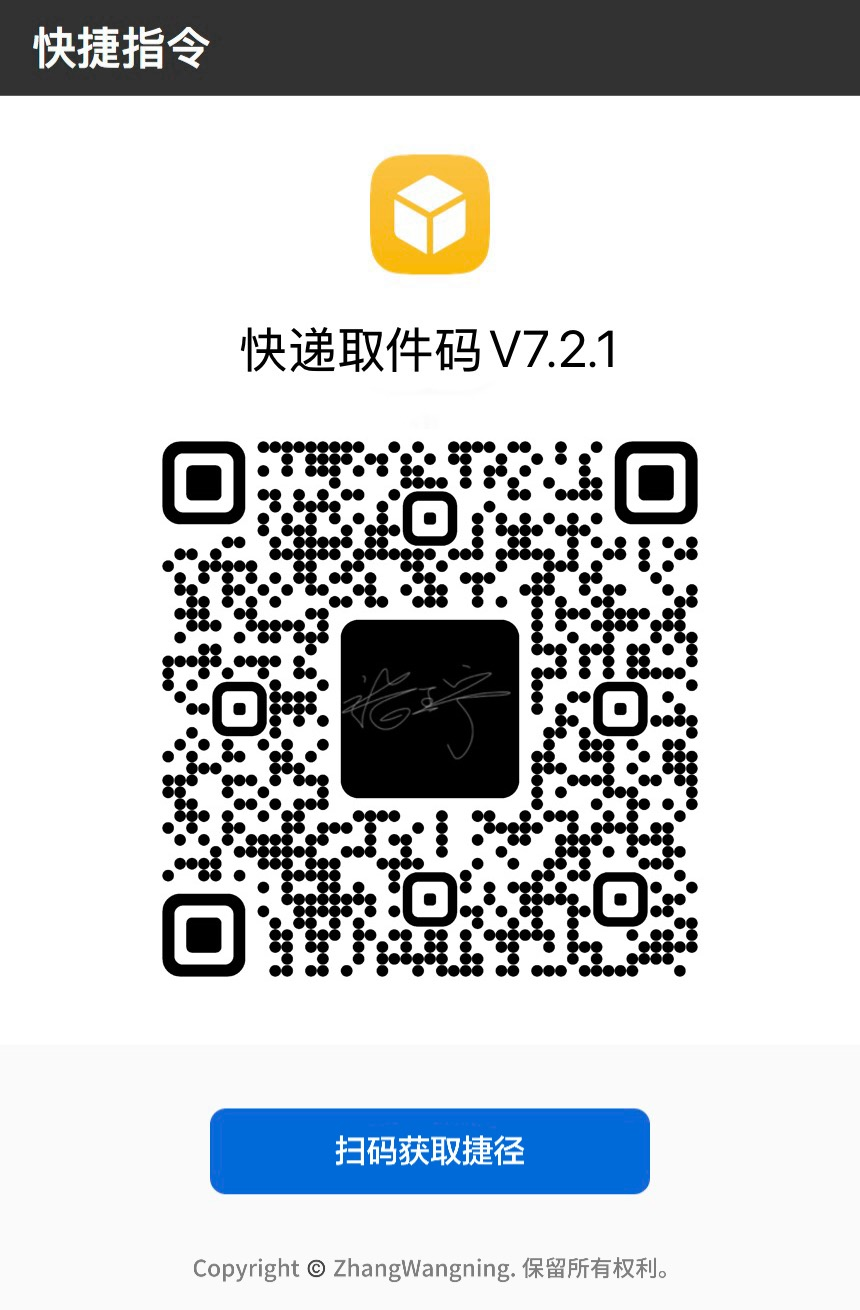
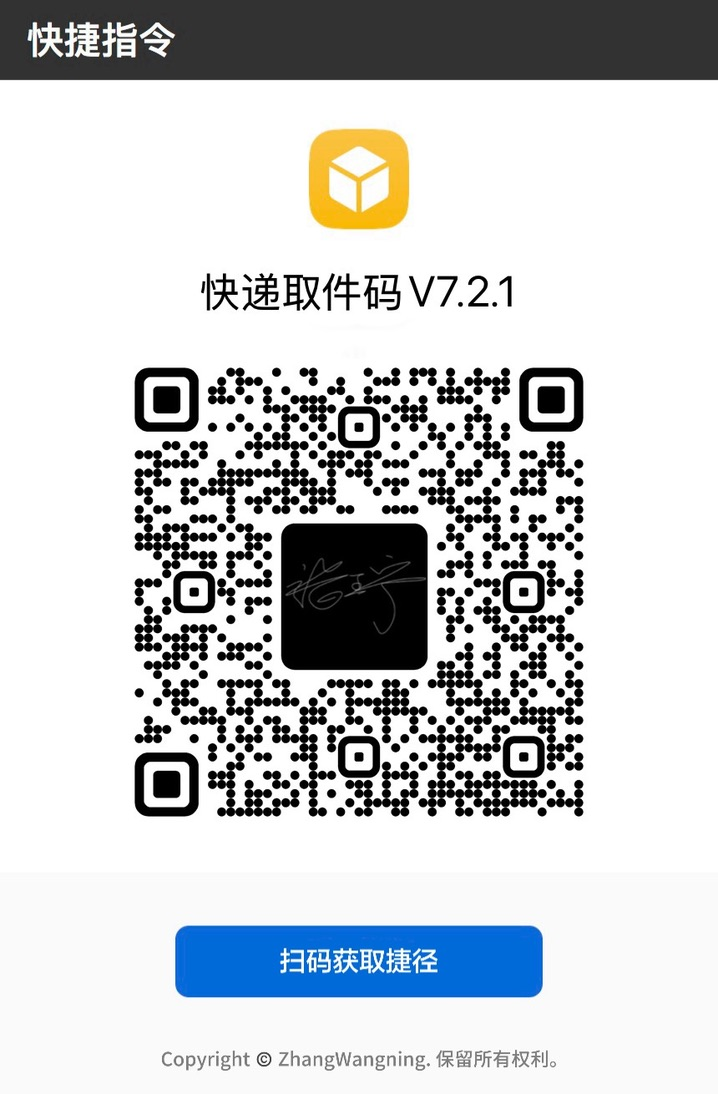
docs: 更新 V7.2.1 文档 — iCloud 链接/二维码/使用教程合并至 README

Changed region(s): [[0.1838, 0.3108, 0.8273, 0.7459], [0.4596, 0.8702, 0.5209, 0.9013]]

diff --git a/README.md b/README.md
@@ -34,7 +34,7 @@
 点击下方链接，在 Safari 中打开即可添加：
 
 ```
-https://www.icloud.com/shortcuts/f8465347024c422690bbccabf58b3ea2
+https://www.icloud.com/shortcuts/9227bb617ac449b0bfc7b3620d6ac402
 ```
 
 > 💡 **提示**：打开链接后选择「获取快捷指令」，首次使用需在「设置 → 快捷指令」中允许运行。
@@ -57,29 +57,32 @@ https://gitee.com/zhang_wangning/shortcut_pickup_code/raw/master/pickup-code.sho
 
 > 旧版本不再单独提供，回复 `0525` 获取到的始终为**当前最新版**。扫码 / iCloud / 仓库下载方式见上方，二者等价。
 
-## 📖 使用方法
+## 📖 使用方法（完整教程）
 
-> 完整配置步骤与工作原理，详见 [USAGE.md](USAGE.md)。
+> 本教程基于「快递取件码」快捷指令的真实操作流编写。指令本体由 128 个动作组成，通过正则从短信中提取取件码、运单号、取件地址，并写入「提醒事项」实现集中管理。全程本地运行，无需第三方 App。
 
-### 1⃣ 首次运行授权
+### 一、使用前准备
 
-首次运行时，系统会请求**提醒事项**权限，请务必点击「允许」。
+#### 1. 提醒事项列表（无需手动创建）
 
-### 2⃣ 工作逻辑
+快捷指令首次运行时会自动检测配置中指定的提醒列表是否存在（默认名称为"待取件📦"）。若不存在，指令会自动创建该列表，因此不需要提前手动新建。
 
-本指令的核心是「短信自动化触发」：手机收到包含 `【` 的快递短信后，iOS 自动化自动运行「快递取件码」指令，从短信中提取取件码、运单号、取件地址，并写入「提醒事项」的"待取件📦"列表。
+如果你希望使用自定义列表名，只需在指令的"词典"模块中修改"取件列表名称"的值，并与提醒事项中的列表名保持一致即可（指令会自动创建，通常无需手动操作）。
 
-整个流程全自动，无需手动操作：
-1. 收到快递短信 → 自动化检测到内容包含 `【` → 后台触发指令
-2. 指令提取取件码、运单号、站点等信息
-3. 结果写入「提醒事项」→ 推送通知
-4. 打开「提醒事项」查看"待取件📦"清单，取件后打勾 ✓
+#### 2. 开启必要权限
 
-> 短信自动触发的完整配置步骤（7 步）见 [USAGE.md](USAGE.md) 第三节。
+- 打开 iOS「设置 → 快捷指令」，开启「iCloud 同步」与「私人共享」（不同系统版本名称略有差异，核心是允许快捷指令正常安装与运行）。
+- 首次运行本指令时，系统会请求「提醒事项」的访问权限，请点击「允许」。若拒绝，指令将无法写入取件记录。
 
-## ⚙ 自定义配置
+### 二、配置快捷指令参数
 
-通过指令顶部的「字典」动作可修改参数，常用配置项如下（小白建议保持默认）：
+在「快捷指令」App 中打开「快递取件码」指令，找到内部的"词典"模块进行配置：
+
+- 取件列表名称：写入结果的目标提醒列表名，默认"待取件📦"。修改后需与实际列表名一致。
+- 取件地址：填写 True 显示取件地址，填写 False 隐藏地址。
+- 快递公司 / 驿站列表：词典中以字符串数组形式保存了顺丰、圆通、申通、中通、韵达、京东、极兔、菜鸟等数十家快递公司与代收点名称（含 SF、STO、ZTO、EMS、J&T 等英文标识）。这些关键词是指令识别有效取件短信的判断依据。如某家快递或驿站暂未被识别，请将原始短信发送至微信公众号或小红书私信，由作者适配，无需自行修改。
+
+常用配置项一览（小白建议保持默认）：
 
 | 配置项 | 默认值 | 说明 |
 | --- | --- | --- |
@@ -89,6 +92,120 @@ https://gitee.com/zhang_wangning/shortcut_pickup_code/raw/master/pickup-code.sho
 | 更新检查 | `True` | 在线版本检查开关；改为 `False` 可离线运行（不再中断取件流程） |
 | 自动创建列表 | `True` | 首次运行是否自动创建「待取件📦」列表 |
 | 版本号 | `7.2.1` | 当前版本（只读，勿改） |
+
+> ⚠ 小白用户建议保持所有默认值，无需更改。
+
+### 三、配置短信自动触发（核心步骤）
+
+本指令的工作逻辑是：手机收到短信 → iOS 自动化检测到内容包含 `【` → 自动运行「快递取件码」指令 → 提取取件信息写入提醒事项。因此，配置短信自动触发是使用本指令的必要前提，而非可选项。
+
+> 注意：自动化必须在「**快捷指令**」App 中创建，"信息"只是触发类型；不能在「信息」App 里设置。
+
+配置步骤如下：
+
+1. 打开「快捷指令」App，点击左侧边栏的「自动化」标签页。
+2. 点击右上角「+」，新建「个人自动化」，触发器选择「信息」（图标为绿色对话气泡）。
+3. 设置触发条件：
+   - 选择「信息 包含」
+   - 在输入框中填入 **`【`** （中文左方括号，不含引号）
+   - 绝大多数正规快递通知短信均以【公司名】开头，包含 `【` 可有效筛选快递类信息
+4. 点击「下一步」进入动作配置界面，在搜索框中搜索并添加「运行快捷指令」动作。
+5. 在「运行快捷指令」的下拉列表中选择 **「快递取件码」**。
+6. 配置变量传递（关键步骤）：
+   - 点击「运行快捷指令」动作下方的「输入」区域
+   - 选择「选取变量 → 输入快捷指令的信息」
+   - 此操作将本次自动化捕获的完整短信全文作为参数传递给指令进行处理
+7. 关闭「运行前确认」，开启「立即运行」，实现收到短信后后台静默处理。
+
+> 注意：配置完成后，自动化默认处于关闭状态（如截图中右上角开关所示）。你需要手动将开关打开才能生效。
+
+### 四、工作逻辑与运行效果
+
+完成上述配置后，日常使用无需任何手动操作——只要收到符合条件的快递短信，系统就会自动完成以下处理：
+
+1. **自动触发**：短信到达且内容包含 `【` 时，iOS 自动化在后台静默触发「快递取件码」指令。
+2. **信息传递**：自动化将整条短信全文作为输入变量传递给指令。
+3. **智能提取**：指令通过正则从短信中抓取取件码、运单号、快递公司、取件地址或驿站名称。
+4. **写入提醒**：结果被整理并写入「提醒事项」的"待取件📦"列表。
+5. **推送通知**：写入后推送系统通知，避免漏看。
+6. **查看与打勾**：打开「提醒事项」即可看到整理好的取件清单，取件后直接打勾。
+
+**内部机制：**
+- 智能去重：同一短信重复推送时，已存在的取件记录会被标记完成，不会生成重复项。
+- 循环与分支：指令内部通过循环批量处理多个取件码（如一条短信含多个取件码），通过条件分支应对不同公司、不同短信格式以及是否已记录的情况。
+
+### 五、V7.2.1 在线更新说明（重要）
+
+V7.1.0 起引入了**在线版本检查**功能：指令启动时会联网拉取仓库中的 `version.json`，比对 `versionCode` 判断是否有新版本。V7.2.1 进一步优化了此功能。
+
+- **需要联网**：此功能依赖网络请求。如果设备处于离线环境，且未做以下配置，指令可能无法正常运行。
+- **V7.2.1 优化**：关闭「更新检查」后，**不再中断指令运行**，而是通过系统通知推送新版本提示（标题：「【快递取件码】版本更新通知，请立即更新」），取件流程照常执行。
+
+#### 如何关闭在线更新检查
+
+如果你暂时不想联网使用、或不希望每次启动都检查版本，按以下步骤操作：
+
+1. 打开「快捷指令」App → 找到并打开「**快递取件码 V7.2.1**」
+2. 找到最上方的 **「字典」** 动作（第一个字典，即配置字典）
+3. 在字典列表中找到名为 **「更新检查」** 的条目
+4. 将其值由 **True** 改为 **False**
+
+![V7.2.1 字典全部可配置项](assets/update-check-toggle.jpg)
+
+上图为 V7.2.1 配置字典的完整界面，包含以下**全部可配置项**（见上方第二节表格）。
+
+> ⚠ **离线模式 vs 联网模式**：关闭更新检查后，你将不会收到新版本提示。建议在有网络时定期打开检查一次，或在仓库页面手动查看是否有新版发布。
+
+#### 自动创建列表（V7.2.1 默认开启）
+
+首次保存快捷指令时，系统会弹出「配置此快捷指令」页面，可在此编辑「自动创建列表」开关（默认 True）。保存后也可随时在字典中修改。
+
+### 六、常见问题
+
+1. **隐私说明**：本指令在设备本地读取短信内容并提取。首次运行需授权提醒事项访问权限；若关闭该权限，指令将无法工作。短信数据仅在本地处理，不联网上传（在线版本检查除外，见第五节）。
+2. **没有自动生成记录**：检查自动化中是否开启了「立即运行」，以及触发条件是否为「信息 包含 【」；同时确认自动化开关已打开（配置完成后默认关闭）。
+3. **某家快递无法识别**：如果无法匹配提取取件码，请将原始短信内容发送至**微信公众号或小红书私信**，收到后会着手适配（无需用户自行修改指令）。
+4. **多设备同步**：若 iPhone 与 iPad 登录同一 Apple ID 并开启自动化同步，建议仅在一台设备上启用短信自动化，避免重复触发生成两条记录。
+
+### 附录：iOS 自动化设置参考（iOS 27）
+
+> 以下截图为 iOS 27 系统下的**短信自动化触发**实际配置界面，照着操作即可完成设置。
+
+![iOS 27 自动化设置](assets/ios27-automation-setup.jpg)
+
+#### 截图说明
+
+上图中包含两个关键配置区域，逐一对照：
+
+#### ① 触发器（上半部分）
+
+| 设置项 | 正确值 | 说明 |
+| --- | --- | --- |
+| 触发类型 | **我收到符合以下条件的信息时** | 选择「信息」触发器 |
+| 条件 | **信息 包含 【** | 填入中文左方括号 `【`（非半角 `[`） |
+| **自动化开关** | ✅ **开启**（绿色） | 配置完成后必须手动打开，否则不会自动运行 |
+| **运行前确认** | ❌ **关闭**（灰色） | 关闭后收到短信才会在后台静默执行，不会弹窗询问 |
+
+#### ② 动作（下半部分）
+
+| 设置项 | 正确值 | 说明 |
+| --- | --- | --- |
+| 动作类型 | **运行 快递取件码 V7.2.1** | 在下拉列表中选择本指令 |
+| 输入变量 | **输入快捷指令的信息** | 将整条短信内容传给指令处理 |
+
+#### 完整配置步骤（7 步）
+
+如果从零开始新建自动化，按以下顺序操作：
+
+1. 打开「快捷指令」App → 左侧边栏点击「**自动化**」标签
+2. 点击右上角「**+**」→ 选择「**个人自动化**」
+3. 触发器选择「**信息**」（绿色对话气泡图标）
+4. 设置条件为「**信息 包含 【**」
+5. 点击「下一步」→ 搜索并添加「**运行快捷指令**」动作
+6. 选择「**快递取件码 V7.2.1**」，输入设为「**输入快捷指令的信息**」
+7. 关闭「**运行前确认**」，打开「**自动化**」开关
+
+> ⚠ 配置完成后，「自动化」开关默认是**关闭**的。你需要手动打开它才能生效——这是 iOS 的安全机制，防止误触发。
 
 ## 🔧 技术原理
 
